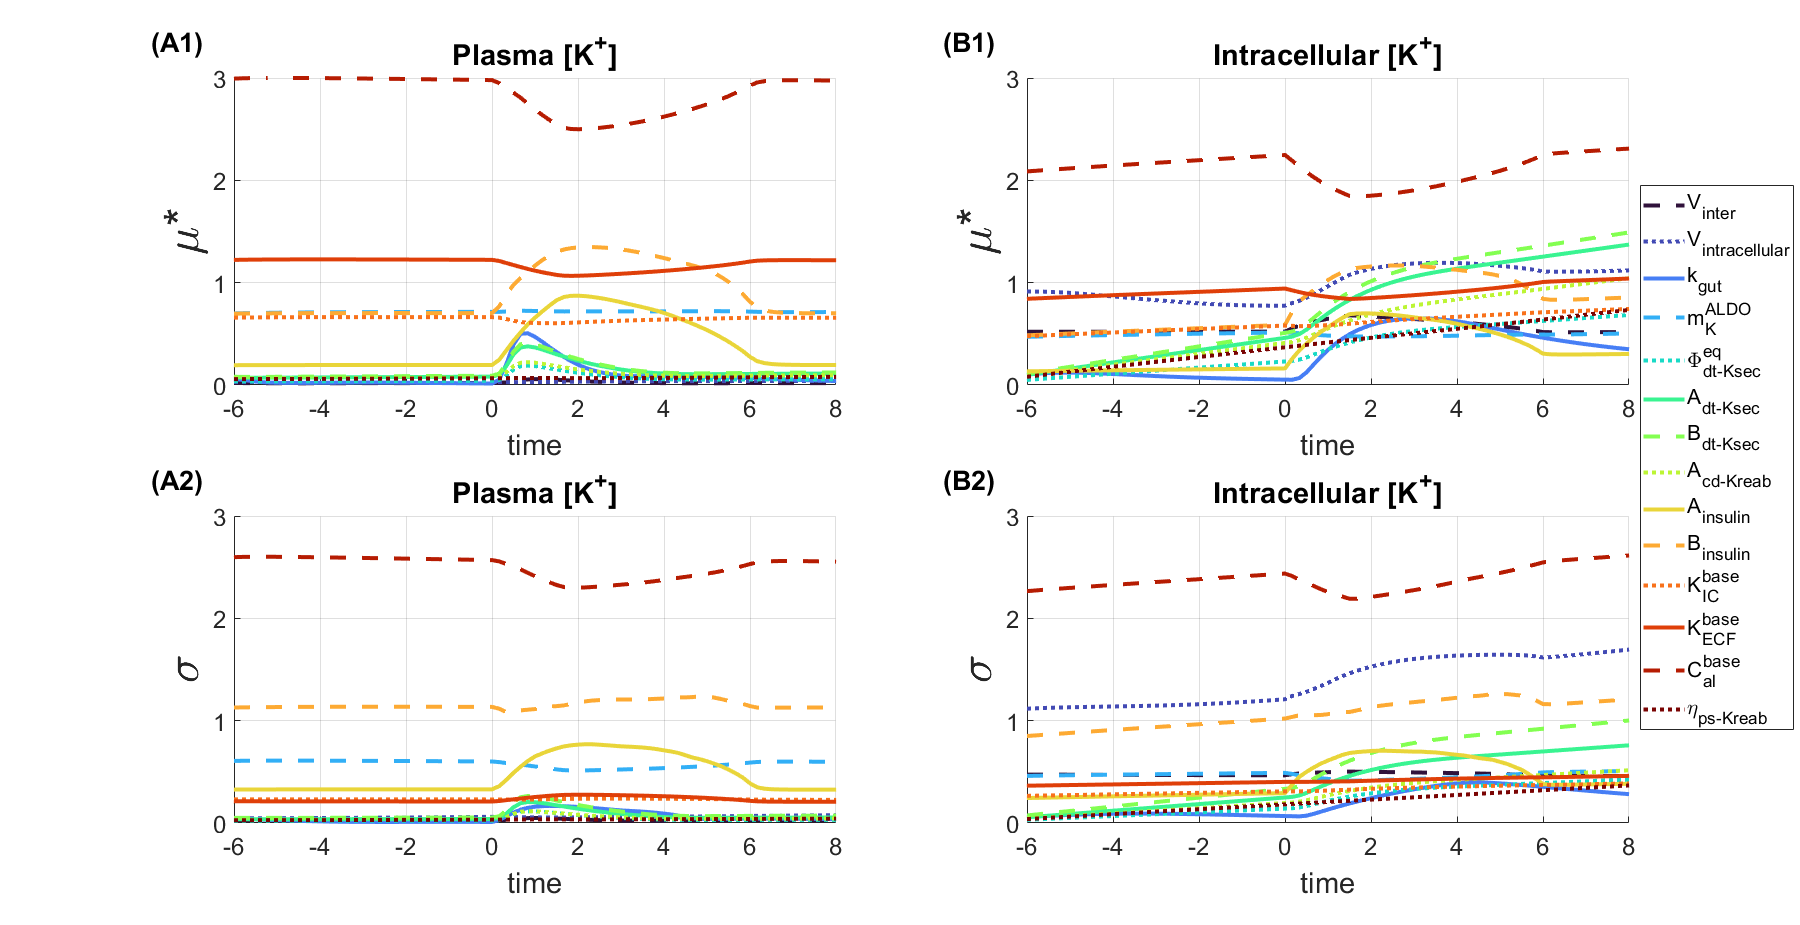
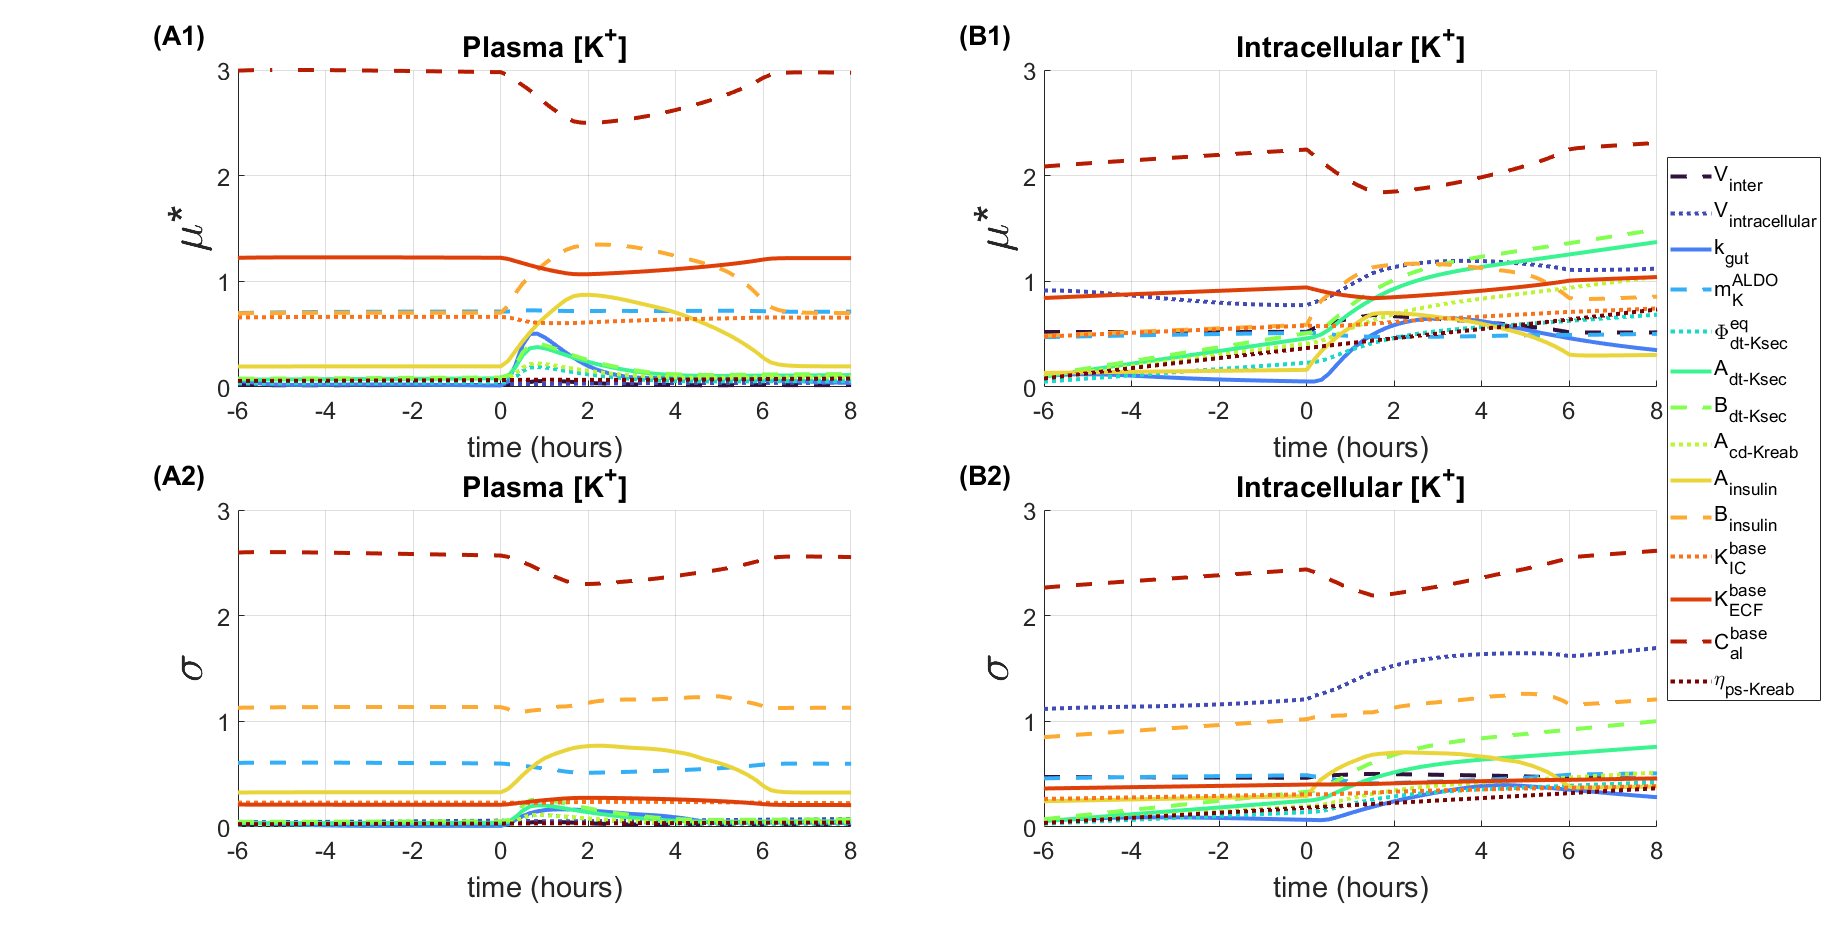
changed figure

diff --git a/Figures/plot_Morris_MealKCl.m b/Figures/plot_Morris_MealKCl.m
@@ -133,7 +133,7 @@ for jj = 1:length(allIDs)
     plt_parnames_sub = [plt_parnames_sub; change_parname(parnames(ii))];
 end
 set(gca, 'fontsize', fgca)
-xlabel('time', 'fontsize',fx)
+xlabel('time (hours)', 'fontsize',fx)
 ylabel('\mu*', 'fontsize',fy)
 title("Plasma [K^+]", 'fontsize',ft)
 xlim(xminmax)
@@ -154,7 +154,7 @@ for jj = 1:length(allIDs)
         'linestyle', ls{lstyle})
 end
 set(gca, 'fontsize', fgca)
-xlabel('time', 'fontsize',fx)
+xlabel('time (hours)', 'fontsize',fx)
 xlim(xminmax)
 ylim(yminmax)
 %yticks(ytickvals)
@@ -177,7 +177,7 @@ for jj = 1:length(allIDs)
         'color', cmap(jj,:), 'linestyle', ls{lstyle})
 end
 set(gca, 'fontsize', fgca)
-xlabel('time', 'fontsize', fx)
+xlabel('time (hours)', 'fontsize', fx)
 xlim(xminmax)
 ylim(yminmax)
 %yticks(ytickvals)
@@ -197,7 +197,7 @@ for jj = 1:length(allIDs)
         'color', cmap(jj,:), 'linestyle', ls{lstyle})
 end
 set(gca, 'fontsize', fgca)
-xlabel('time', 'fontsize', fx)
+xlabel('time (hours)', 'fontsize', fx)
 xlim(xminmax)
 ylim(yminmax)
 %yticks(ytickvals)
